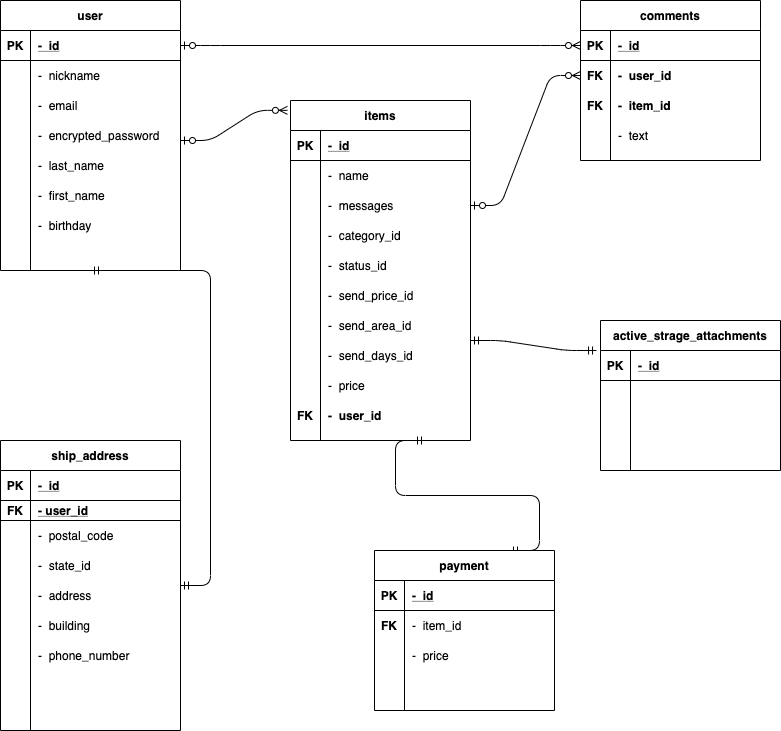
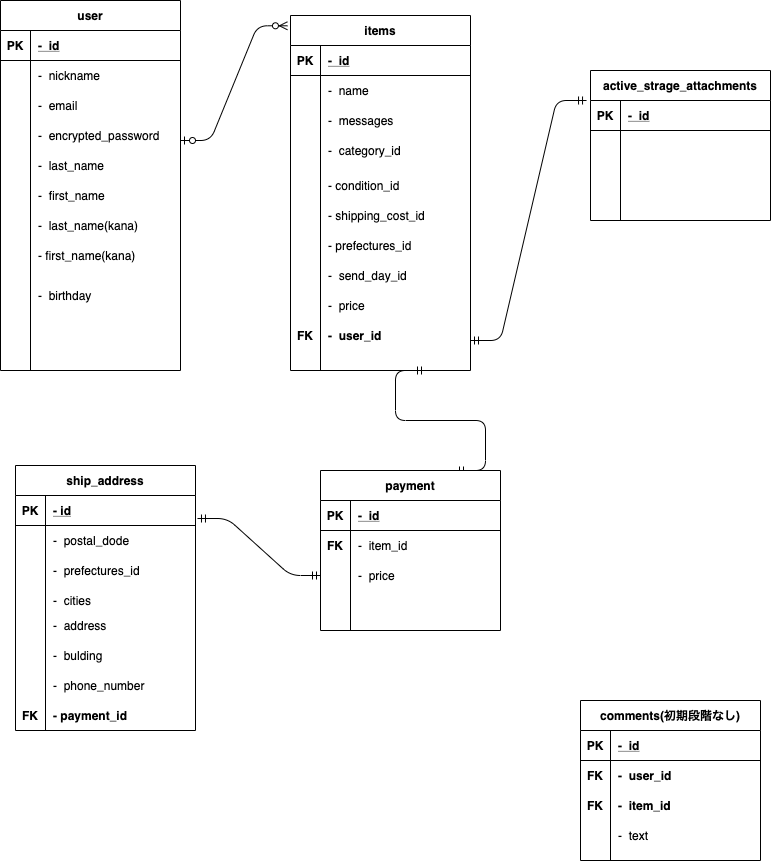
データベース設計記述＆ERD！訂正！

diff --git a/README.md b/README.md
@@ -33,42 +33,79 @@ Things you may want to cover:
 | encrypted_password | string   | null: false       |
 | last_name          | string   | null: false       |
 | first_name         | string   | null: false       |
+| last_name(kana)    | string   | null: false       |
+| first_name(kana)   | string   | null: false       |
 | birthday           | date     | null: false       |
 
 ### Association
 
-- has_many :comments
 - has_many :items
-- has_one  :ship_address
 
 
 ## items テーブル
 
-| Column        | Type       | Options                         |
-| ------------- | ---------- | ------------------------------- |
-| name          | string     | null: false                     |
-| messages      | text       | null: false                     |
-| category_id   | integer    | null: false                     |
-| send_price_id | integer    | null: false                     |  
-| status_id     | integer    | null: false                     |  
-| send_area_id  | integer    | null: false                     |
-| price         | integer    | null: false                     | 
-| user          | references | null: false , foreign_key: true |
+| Column           | Type       | Options                         |
+| ---------------- | ---------- | ------------------------------- |
+| name             | string     | null: false                     |
+| messages         | text       | null: false                     |
+| category_id      | integer    | null: false                     |
+| condition_id     | integer    | null: false                     |  
+| shipping_cost_id | integer    | null: false                     |
+| prefectures_id   | integer    | null: false                     |  
+| send_days_id     | integer    | null: false                     |
+| price            | integer    | null: false                     | 
+| user             | references | null: false , foreign_key: true |
 
 ### Association
 
-- has_many :comments
 - has_one  :payment
 - has_one_attached :image
+- belongs_to: user
 
 ## ActiveHashを用いるモデル
 - class Category
-- class SendPrice
-- class Status
-- class SendArea
+- class Condition
+- class ShoppingCost
+- class Prefecture
+- class SendDay
 
 
-## commentsテーブル
+
+## ship_address テーブル
+
+| Column         | Type      | Options                        |
+| -------------- | --------- | ------------------------------ |
+| postal_code    | string    | null: false                    |
+| prefectures_id | integer   | null: false                    |
+| cities         | string    | null: false                    |
+| address        | string    | null: false                    |
+| building       | string    | null: false                    |
+| phone_number   | string    | null: false                    |
+| user_id        | reference | null: false, foreign_key: true |
+
+### Association
+
+- belong_to :payment
+
+## ActiveHashを用いるモデル
+- class Prefecture
+
+
+## payment テーブル
+
+| Column   | Type     | Option                        |
+| -------- | -------- |------------------------------ |
+| price    | integer  | null: false                   |
+| item_id  | integer  | null:false. foreign_key: true |
+
+### Association
+- has_one:ship_address
+- belongs_to:item
+
+
+
+----------------------------------------------------------------
+## commentsテーブル（追加実装後の機能）
 
 | Column | Type       | Options                        | 
 | ------ | ---------- | ------------------------------ |
@@ -79,22 +116,3 @@ Things you may want to cover:
 
 - belong_to :user
 - belong_to :item
-
-
-## ship_address テーブル
-
-| Column       | Type      | Options                        |
-| ------------ | --------- | ------------------------------ |
-| postal_code  | integer   | null: false                    |
-| state_id     | text      | null: false                    |
-| address      | string    | null: false                    |
-| build        | text      | null: false                    |
-| phone_number | string    | null: false                    |
-| user_id      | reference | null: false, foreign_key: true |
-
-### Association
-
-- belong_to :user
-
-## ActiveHashを用いるモデル
-- class Status
